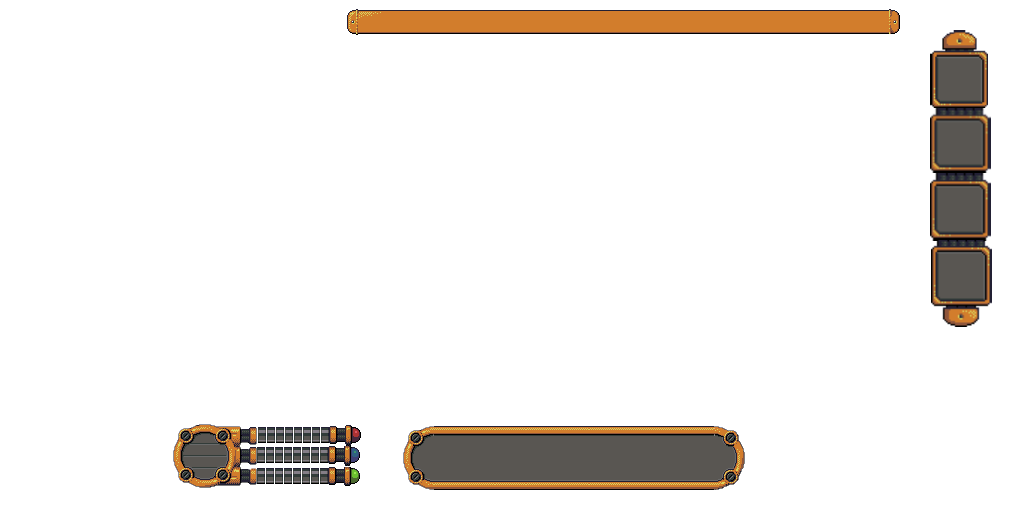
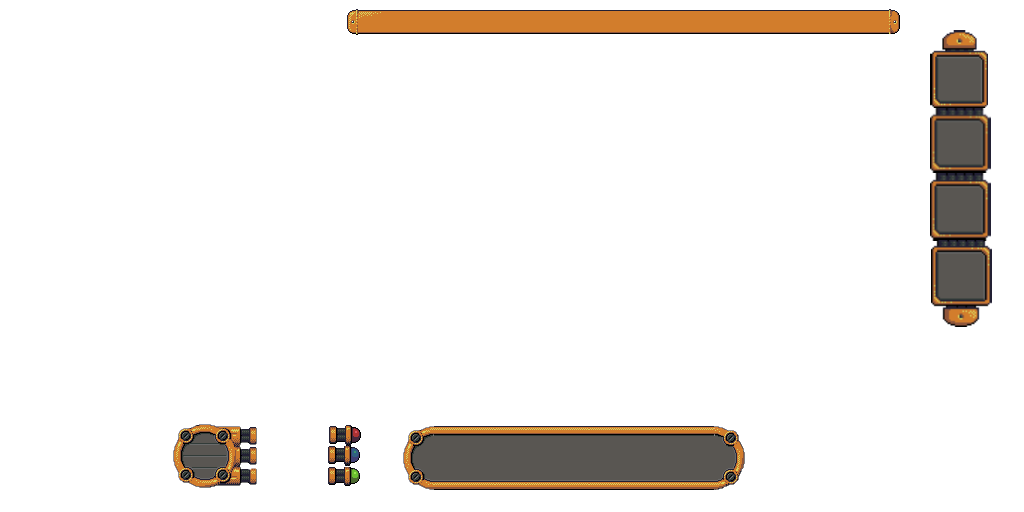
+add blood

Changed region(s): [[0.25, 0.8125, 0.3438, 0.9688]]

diff --git a/KingComeBack/Classes/GamePlayScene.cpp b/KingComeBack/Classes/GamePlayScene.cpp
@@ -50,7 +50,7 @@ bool GamePlayScene::init()
 
 	//code duoc
 	hero = new Hero(_layer2D);
-
+	
 
 
 	dragon = new Dragon(_layer2D);
@@ -69,7 +69,7 @@ bool GamePlayScene::init()
 
 	// add layer 
 	this->createLayerUI();
-
+	hero->createBloodSprite(_layerUI);
 	//Add Knight Red
 	AddKnightRed();
 
@@ -483,8 +483,6 @@ void GamePlayScene::AddEventForPopupScoutTown()
 			+ camera->getPosition() - Director::getInstance()->getVisibleSize() / 2);
 		newScoutTown->getSprite()->setCameraMask(2);
 		postScountTower = _touch->getLocation() + camera->getPosition() - Director::getInstance()->getVisibleSize() / 2;
-		
-
 		this->getEventDispatcher()->removeEventListener(buildHouseListener);
 	};
 	this->_eventDispatcher->addEventListenerWithSceneGraphPriority(buildHouseListener, this);
@@ -748,7 +746,6 @@ void GamePlayScene::createButtonAttack()
 	mButtonAttack->setScale(0.5);
 	mButtonAttack->setPosition(screenSize.width *0.92  , screenSize.height * 0.18  );
 	_layerUI->addChild(mButtonAttack,10);
-
 
 }
 

diff --git a/KingComeBack/Classes/Hero.cpp b/KingComeBack/Classes/Hero.cpp
@@ -297,7 +297,29 @@ Blood * Hero::getBlood()
 
 void Hero::createBloodSprite(Layer * l)
 {
+	spriteBlood = Sprite::create("bloodBar.png");
+	spriteBlood->setAnchorPoint(Vec2(0,0));
+	spriteBlood->setPosition(322,97);
+	l->addChild(spriteBlood,10);
 
+	spriteMana = Sprite::create("bloodBar.png");
+	
+
+	spriteMana->setAnchorPoint(Vec2(0, 0));
+	spriteMana->setPosition(322, 70);
+	l->addChild(spriteMana, 10);
+
+	spriteGreen = Sprite::create("bloodBar.png");
+
+	spriteGreen->setAnchorPoint(Vec2(0, 0));
+	spriteGreen->setPosition(322, 38);
+	l->addChild(spriteGreen, 10);
+}
+
+void Hero::handleBloodBar()
+{
+	float per = blood->getBlood()/1000;
+	spriteBlood->setScaleX(per);
 }
 
 

diff --git a/KingComeBack/Classes/Blood.cpp b/KingComeBack/Classes/Blood.cpp
@@ -20,6 +20,10 @@ Blood::Blood(float b, float m , float g)
 	this->m_mana = m;
 }
 
+Blood::~Blood()
+{
+}
+
 void Blood::setBlood(float b)
 {
 	this->m_blood += b;
@@ -50,7 +54,7 @@ float Blood::getGreen()
 	return 	this->m_green;
 }
 
-void Blood::changeBlood(float db)
+void Blood::reduceBlood(float db)
 {
 	this->m_blood += db;
 }

diff --git a/KingComeBack/Classes/Hero.h b/KingComeBack/Classes/Hero.h
@@ -42,6 +42,8 @@ public:
 
 	void createBloodSprite(Layer *);
 
+	void handleBloodBar();
+
 
 
 
@@ -59,7 +61,7 @@ private:
 	Vec2 origin;
 	int direct=0;
 //	cocos2d::Action* mListAction[100];
-	Sprite * skill_1, *skill_2;
+	Sprite * skill_1, *skill_2, *spriteBlood, *spriteMana, *spriteGreen;
 
 	MoveTo * moveto;
 	

diff --git a/KingComeBack/Classes/Blood.h b/KingComeBack/Classes/Blood.h
@@ -11,9 +11,7 @@ public:
 	float getMana();
 	void setGreen(float);
 	float getGreen();
-
-	void changeBlood( float );
-
+	void reduceBlood( float );
 
 private:
 	float m_blood ;
